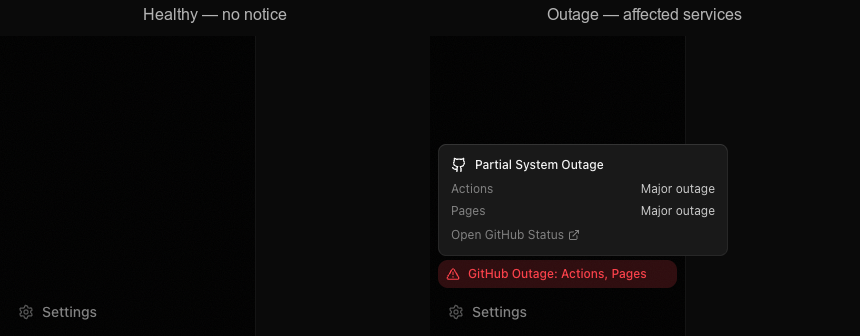
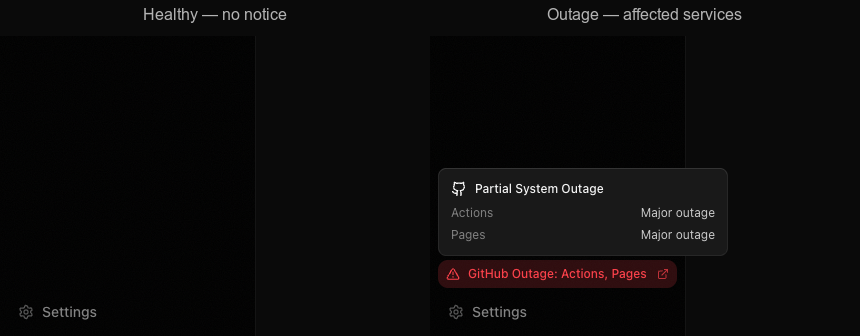
fix(web): clarify GitHub status link affordance

diff --git a/apps/web/src/components/sidebar/GitHubStatusNotice.tsx b/apps/web/src/components/sidebar/GitHubStatusNotice.tsx
@@ -30,10 +30,6 @@ function GitHubStatusTooltip({ notice }: { readonly notice: GitHubStatusNoticeVi
           ))}
         </div>
       ) : null}
-      <div className="mt-2 flex items-center gap-1 text-muted-foreground">
-        Open GitHub Status
-        <ExternalLinkIcon className="size-3" />
-      </div>
     </div>
   );
 }
@@ -102,6 +98,7 @@ export function GitHubStatusNotice() {
           >
             <TriangleAlertIcon className="size-3.5 shrink-0" />
             <span className="truncate">{notice.label}</span>
+            <ExternalLinkIcon className="ml-auto size-3 shrink-0 opacity-70" />
           </button>
         }
       />
